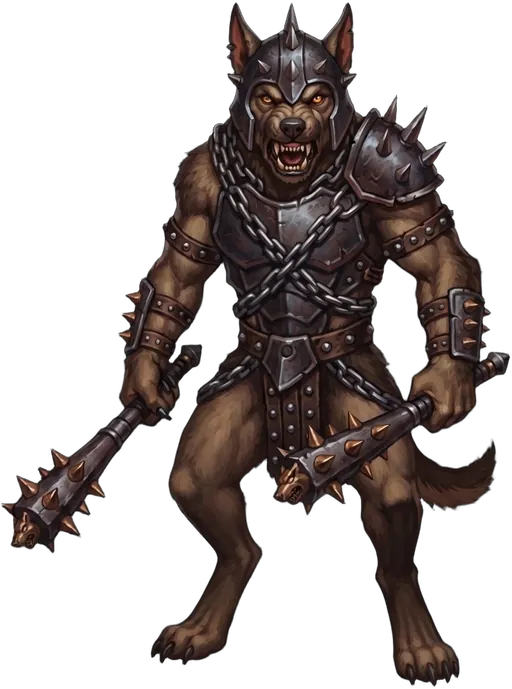
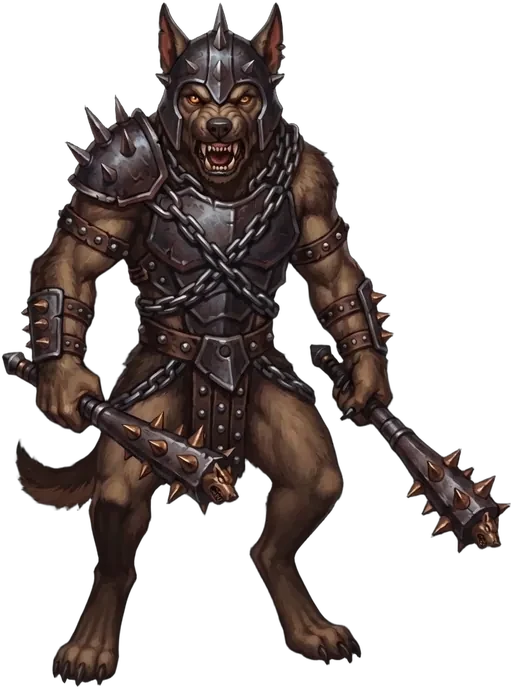
fix(pve): lock ch1 fighter-h facing left (D-040)
Bake Пёс-задира (fighter-h) pixel-left and list in MONSTER_NATIVE_FACE_LEFT
so CSS cannot mirror it away again (Andrew arrow on ch1 боец).

diff --git a/client/web-hud/public/app.js b/client/web-hud/public/app.js
@@ -3316,12 +3316,12 @@ const DUMMY_NATIVE_FACE_LEFT = new Set([
 ]);
 // Only assets authored aiming/looking LEFT. Default native = RIGHT → flip for desired left.
 // Do NOT list: ranger-a, tank-b, wolf-tank/pitboss (shield/glow RIGHT → flip).
-// fighter-h is near-FRONT — ch1 uses fighter-b instead (RIGHT→flip LEFT).
-// Ch3 redd-* cutouts are pixel-authored LEFT (tank/fighter re-baked) — list all four so
-// CSS scaleX does not mirror them away from the cats (Andrew: все монстры смотрят налево).
+// fighter-h (ch1 Пёс-задира) re-baked pixel-LEFT + listed — lock so CSS never mirrors it away
+// (Andrew: боец смотрел направо). Ch3 redd-* same bake+list pattern.
 const MONSTER_NATIVE_FACE_LEFT = new Set([
   "assassin-b",
   "fighter-f",
+  "fighter-h",
   "redd-tank-cutout",
   "redd-fighter-cutout",
   "redd-support-cutout",

diff --git a/client/web-hud/public/index.html b/client/web-hud/public/index.html
@@ -6846,6 +6846,6 @@
   </aside>
 
   <nav id="hubTabs" class="hidden" aria-hidden="true"></nav>
-  <script type="module" src="/app.js?v=d040ch3"></script>
+  <script type="module" src="/app.js?v=d040ch1f"></script>
 </body>
 </html>

diff --git a/client/web-hud/public/stitch-assets/monsters/battle/README.md b/client/web-hud/public/stitch-assets/monsters/battle/README.md
@@ -14,7 +14,7 @@ Lobby / yard map keep non-cutout art. Anim + SFX reuse cat **role** kits via `ba
 
 Wiring: `monsterBattleArt` / `battleUnitArt` in `app.js` — **faction pools** (`MONSTER_BATTLE_BY_FACTION`, D-039) then role fallback; stable pick by `templateId` hash.
 Ch1 dogs → grey armored cutouts (`tank-b` / `fighter-h` / `ranger-a`, pitboss `tank-d`).
-`fighter-h` = обычный пёс (dual clubs). Do not map ch1 to `fighter-b` — that red dual-axe plate is ch3.
+`fighter-h` = обычный пёс (dual clubs), pixel-authored facing **left** + `MONSTER_NATIVE_FACE_LEFT` (locked). Do not map ch1 to `fighter-b` — that red dual-axe plate is ch3.
 Ch2 wolves → RGBA `wolf-*-cutout.webp` (tank/fighter/support/pitboss). Do not reintroduce RGB studio plates.
 Ch3 red dogs → RGBA `redd-*-cutout.webp` (shield tank / dual-axe fighter / flaming-sickle support / flaming-sword pitboss). All four pixel-authored facing **left** (D-040); listed in `MONSTER_NATIVE_FACE_LEFT`.
 Ch4 zombies → RGBA `zombie-*-cutout.webp` (axe tank / cleaver fighter / dagger support / scythe pitboss).
